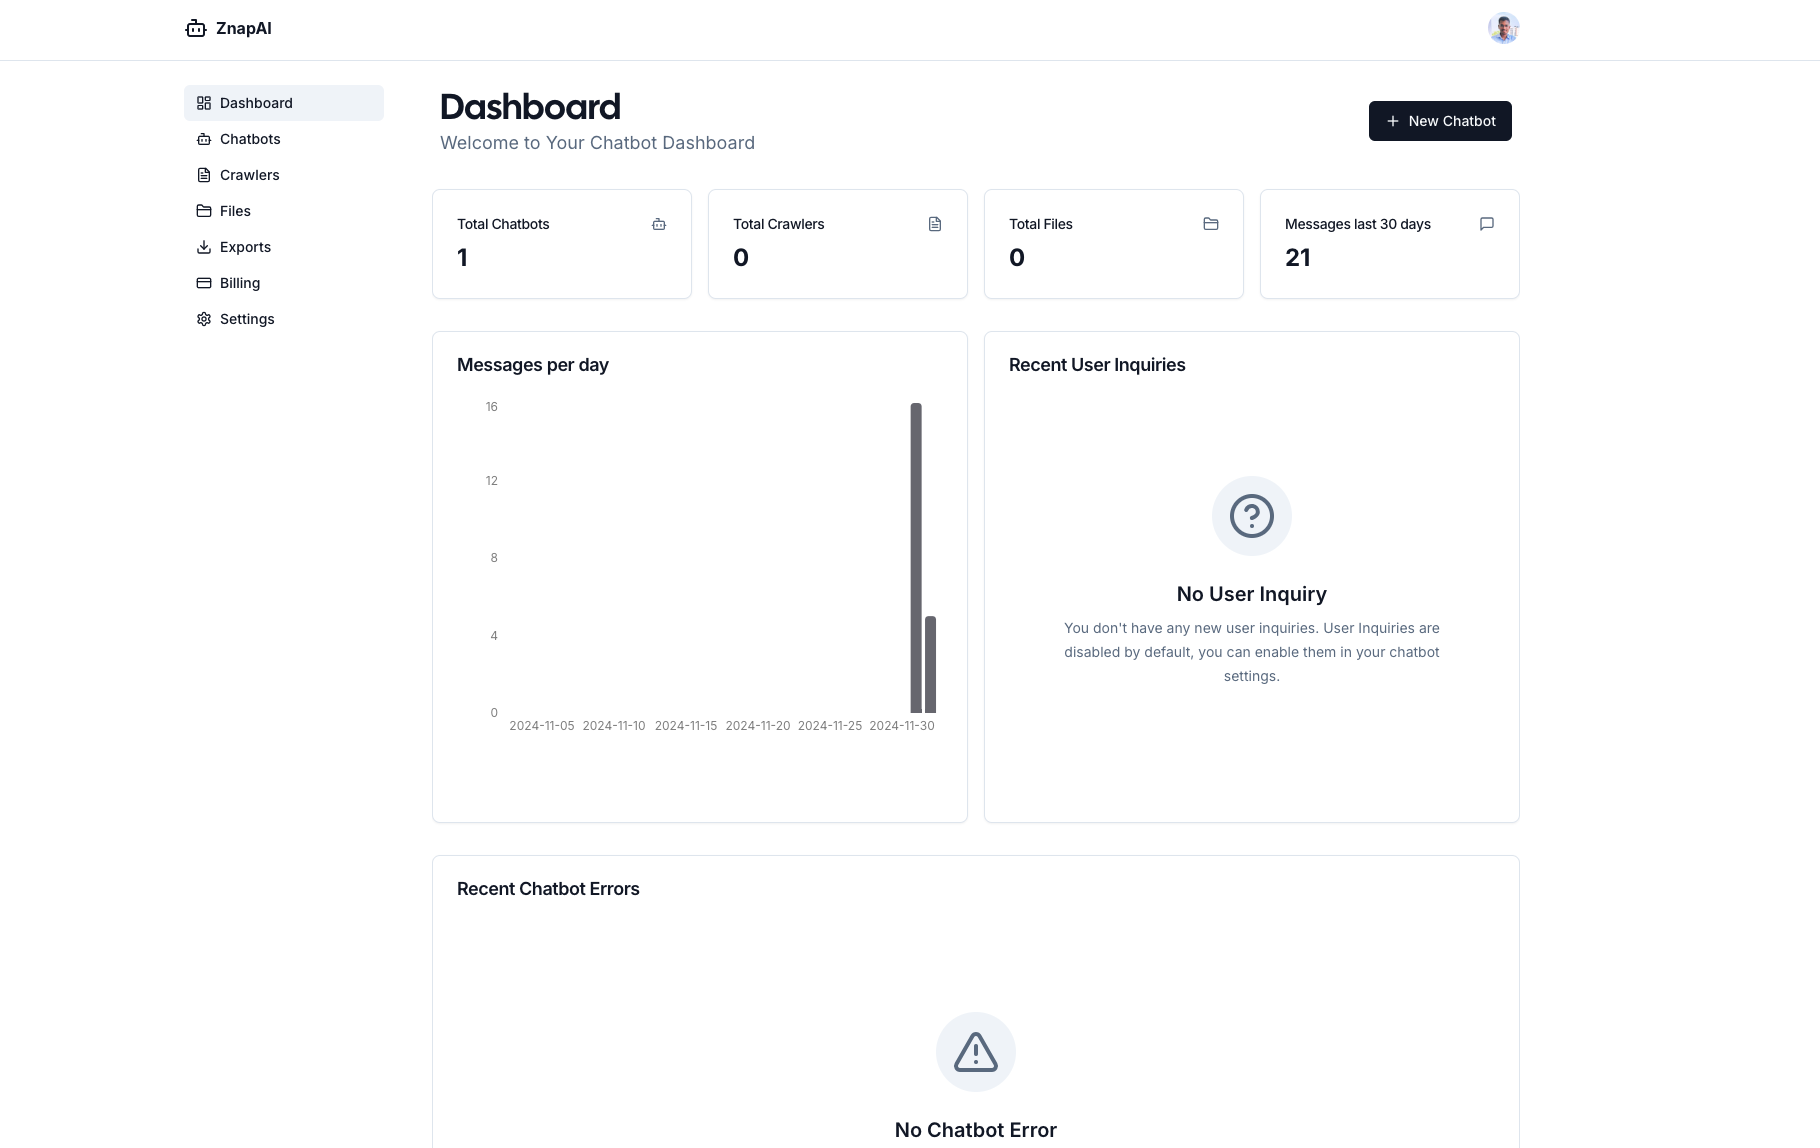
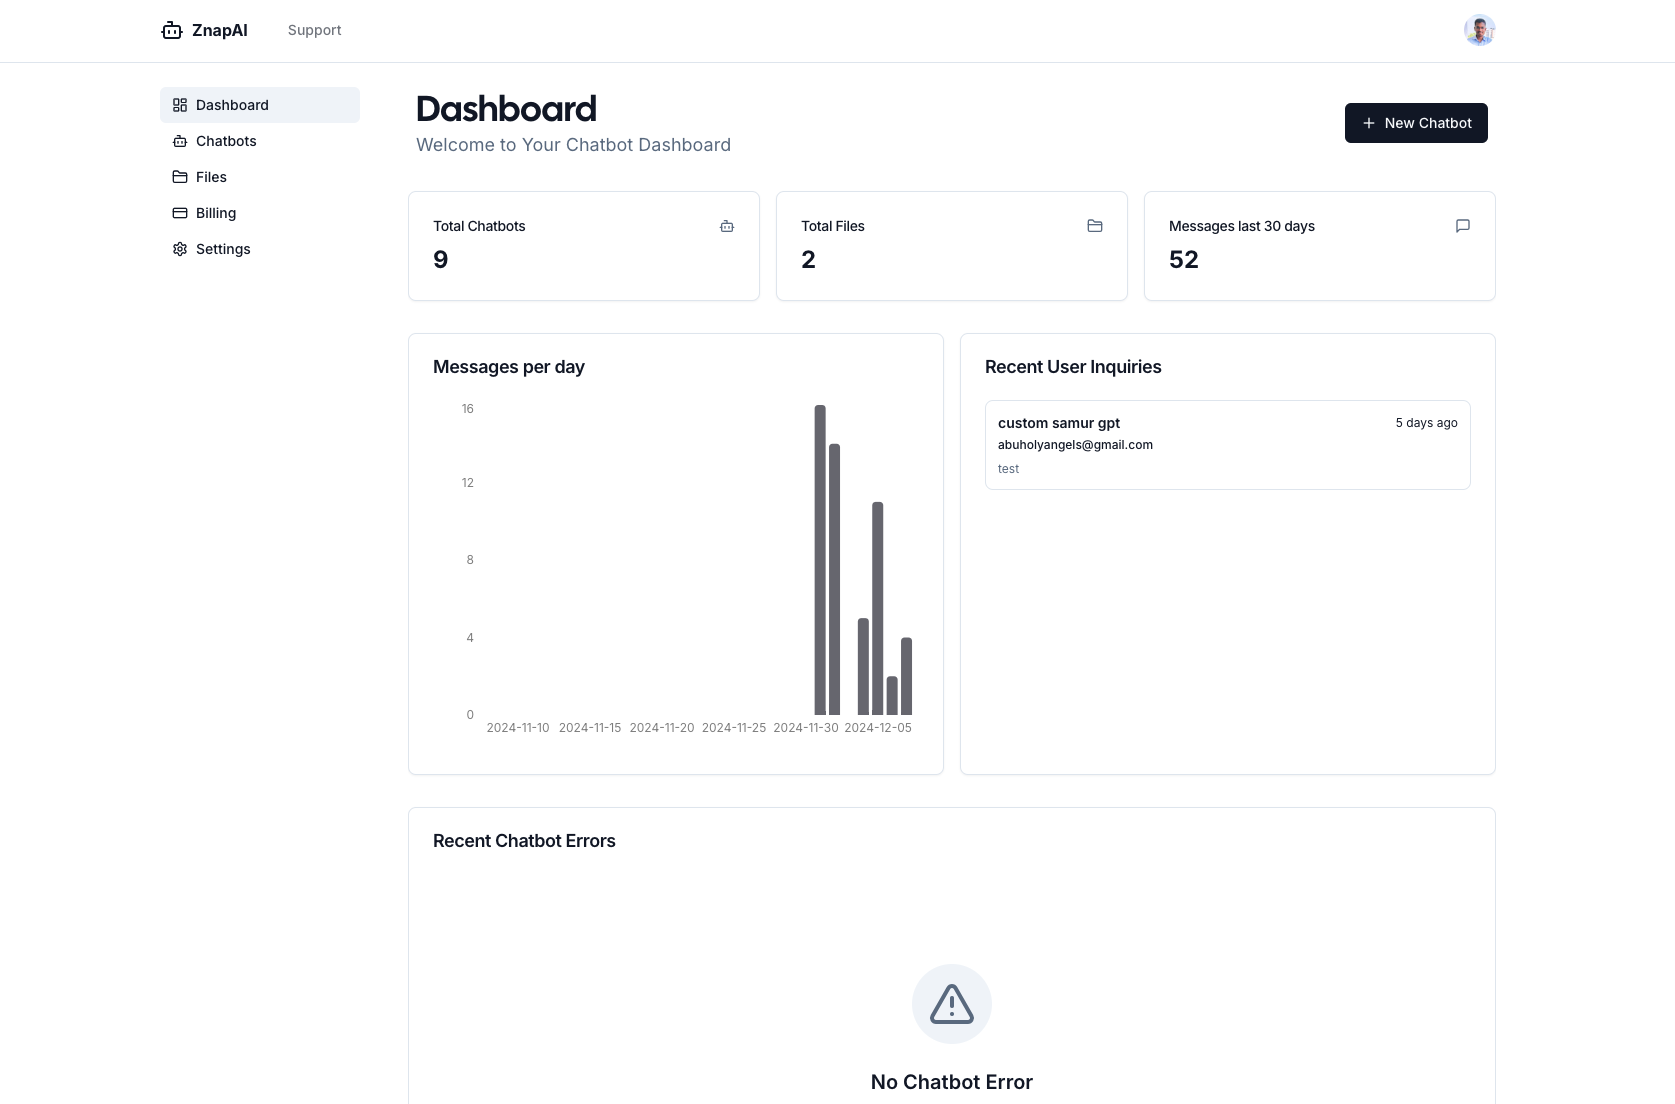
fixed mail

diff --git a/emails/inquiry.tsx b/emails/inquiry.tsx
@@ -23,61 +23,83 @@ interface InquiryEmailProps {
     chatbotId: string | null | undefined;
 }
 
-export default function InquiryEmail({ ownerName, userEmail, userInquiry, chatbotName, chatbotId }: InquiryEmailProps) {
-    const previewText = `New User Inquiry ${chatbotName}!`;
+export default function InquiryEmail({
+    ownerName,
+    userEmail,
+    userInquiry,
+    chatbotName,
+    chatbotId,
+}: {
+    ownerName: string | null | undefined;
+    userEmail: string | null | undefined;
+    userInquiry: string | null | undefined;
+    chatbotName: string | null | undefined;
+    chatbotId: string | null | undefined;
+}) {
+    const previewText = `New User Inquiry for ${chatbotName}!`;
 
     return (
-        <>
-        {/* <Html> */}
-            {/* <Head /> */}
-            {/* <Preview> */}
-                {previewText}
-                {/* </Preview> */}
-            {/* <Tailwind> */}
-                {/* <Body className="bg-white my-auto mx-auto font-sans"> */}
-                    {/* <Container className="my-10 mx-auto p-5 w-[465px]"> */}
-                        {/* <Heading className="text-2xl font-normal text-center p-0 my-8 mx-0"> */}
-                            You have a new user inquiry from {userEmail} !
-                        {/* </Heading> */}
-                        {/* <Text className="text-sm"> */}
-                            Hello {ownerName},
-                            {/* </Text> */}
-                        {/* <Text className="text-sm"> */}
-                            You have received a new inquiry from a user. Here are the details:
+        <div className="bg-gray-50 min-h-screen flex justify-center items-center p-4">
+            <div className="bg-white w-full max-w-md rounded-lg shadow-lg p-6">
+                {/* Preview text */}
+                <p className="hidden">{previewText}</p>
 
-                            <br />
-                            <br />
-                            <b>Chatbot Name:</b> {chatbotName}
-                            <br />
-                            <b>User Email:</b> {userEmail}
-                            <br />
-                            <b>Inquiry Message:</b> {userInquiry}
-                            <br />
-                            <br />
-                            Open your dashboard to view the inquiry and the full conversation.
-                        {/* </Text> */}
-                        {/* <Section className="text-center mt-[32px] mb-[32px]"> */}
-                            {/* <Button */}
-                                {/* className="p-2 bg-[#00A3FF] rounded text-white text-xs font-semibold no-underline text-center"
-                                href={`${siteConfig.url}dashboard/chatbots/${chatbotId}/inquiries`}
-                            > */}
-                                Open Inquiries Dashboard
-                            {/* </Button> */}
-                        {/* </Section> */}
-                        {/* <Text className="text-sm"> */}
-                            Cheers,
-                            <br />
-                            The {siteConfig.name} Team
-                        {/* </Text> */}
-                        {/* <Text className="text-center text-gray-400"> */}
-                            {/* You are subscribed to the emails for Inquiry notifications. To manage your communication preferences, click 
-                                here */}
-                            {/* </Link> */}
-                        {/* </Text> */}
-                    {/* </Container> */}
-                {/* </Body> */}
-            {/* </Tailwind> */}
-        {/* </Html> */}
-        </>
+                {/* Header */}
+                <h1 className="text-2xl font-semibold text-center text-blue-500">
+                    New User Inquiry from {userEmail}!
+                </h1>
+
+                {/* Greeting */}
+                <p className="text-sm mt-4">
+                    Hello <span className="font-medium">{ownerName}</span>,
+                </p>
+
+                {/* Message */}
+                <p className="text-sm mt-2">
+                    You have received a new inquiry from a user. Here are the details:
+                </p>
+
+                {/* Inquiry Details */}
+                <div className="mt-4 text-sm">
+                    <p>
+                        <span className="font-semibold">Chatbot Name:</span> {chatbotName}
+                    </p>
+                    <p>
+                        <span className="font-semibold">User Email:</span> {userEmail}
+                    </p>
+                    <p>
+                        <span className="font-semibold">Inquiry Message:</span> {userInquiry}
+                    </p>
+                </div>
+
+                {/* Call to Action */}
+                <div className="text-center mt-6">
+                    <a
+                        href={`${siteConfig.url}dashboard/chatbots/${chatbotId}/inquiries`}
+                        className="inline-block bg-blue-500 text-white text-sm font-semibold px-4 py-2 rounded hover:bg-blue-600"
+                    >
+                        Open Inquiries Dashboard
+                    </a>
+                </div>
+
+                {/* Closing */}
+                <p className="text-sm mt-6">
+                    Cheers,
+                    <br />
+                    The {siteConfig.name} Team
+                </p>
+
+                {/* Footer */}
+                <p className="text-xs text-gray-400 text-center mt-6">
+                    You are subscribed to emails for inquiry notifications. To manage your communication preferences, click{" "}
+                    <a
+                        href={`${siteConfig.url}dashboard/settings`}
+                        className="text-blue-500 underline"
+                    >
+                        here
+                    </a>.
+                </p>
+            </div>
+        </div>
     );
-};
+}

diff --git a/emails/welcome.tsx b/emails/welcome.tsx
@@ -19,54 +19,68 @@ interface WelcomeEmailProps {
     name: string | null | undefined;
 }
 
-export default function WelcomeEmail({ name }: WelcomeEmailProps) {
+export default function WelcomeEmail({ name }: { name: string | null | undefined }) {
     const previewText = `Welcome to ${siteConfig.name}, ${name}!`;
 
     return (
-        <>
-        {/* <Html> */}
-            {/* <Head /> */}
-            {/* <Preview> */}
-                {previewText}
-                {/* </Preview> */}
-            {/* <Tailwind> */}
-                {/* <Body className="bg-white my-auto mx-auto font-sans"> */}
-                    {/* <Container className="my-10 mx-auto p-5 w-[465px]"> */}
-                        {/* <Heading className="text-2xl font-normal text-center p-0 my-8 mx-0"> */}
-                            Welcome to {siteConfig.name}!
-                        {/* </Heading> */}
-                        {/* <Text className="text-sm">Hello {name},</Text> */}
-                        {/* <Text className="text-sm"> */}
-                            We're excited to have you onboard at <span>{siteConfig.name}</span>. We
-                            hope you enjoy your journey with us. If you have any questions or
-                            need assistance, feel free to reach out.
-                        {/* </Text> */}
-                        {/* <Text> */}
-                            You can contact us directly with the email contact@znap.in
-                        {/* </Text> */}
-                        {/* <Section className="text-center mt-[32px] mb-[32px]"> */}
-                            {/* <Button
-                                className="p-2 bg-[#00A3FF] rounded text-white text-xs font-semibold no-underline text-center"
-                                href={`${siteConfig.url}dashboard/onboarding`}
-                            > */}
-                                {/* Get Started */}
-                            {/* </Button> */}
-                        {/* </Section> */}
-                        {/* <Text className="text-sm"> */}
-                            Cheers,
-                            <br />
-                            The {siteConfig.name} Team
-                        {/* </Text> */}
-                        {/* <Text className="text-center text-gray-400"> */}
-                            {/* You are subscribed to the marketing emails. To manage your communication preferences, click  */}
-                            {/* <Link className="underline text-gray-400" href={`${siteConfig.url}dashboard/settings`}> */}
-                                {/* here */}
-                            {/* </Link> */}
-                        {/* </Text> */}
-                    {/* </Container> */}
-                {/* </Body> */}
-            {/* </Tailwind> */}
-        {/* </Html> */}
-        </>
+        <div className="bg-gray-50 min-h-screen flex justify-center items-center p-4">
+            <div className="bg-white w-full max-w-md rounded-lg shadow-lg p-6">
+                {/* Preview text */}
+                <p className="hidden">{previewText}</p>
+                
+                {/* Header */}
+                <h1 className="text-2xl font-semibold text-center text-blue-500">
+                    Welcome to {siteConfig.name}!
+                </h1>
+                
+                {/* Greeting */}
+                <p className="text-sm mt-4">
+                    Hello <span className="font-medium">{name}</span>,
+                </p>
+                
+                {/* Message */}
+                <p className="text-sm mt-2">
+                    We're excited to have you onboard at <span className="font-medium">{siteConfig.name}</span>. We
+                    hope you enjoy your journey with us. If you have any questions or
+                    need assistance, feel free to reach out.
+                </p>
+                
+                {/* Contact */}
+                <p className="text-sm mt-2">
+                    You can contact us directly at{" "}
+                    <a href="mailto:contact@znap.in" className="text-blue-500 underline">
+                        contact@znap.in
+                    </a>.
+                </p>
+                
+                {/* Button */}
+                <div className="text-center mt-6">
+                    <a
+                        href={`${siteConfig.url}dashboard/`}
+                        className="inline-block bg-blue-500 text-white text-sm font-semibold px-4 py-2 rounded hover:bg-blue-600"
+                    >
+                        Get Started
+                    </a>
+                </div>
+                
+                {/* Closing */}
+                <p className="text-sm mt-6">
+                    Cheers,
+                    <br />
+                    The {siteConfig.name} Team
+                </p>
+                
+                {/* Footer */}
+                <p className="text-xs text-gray-400 text-center mt-6">
+                    You are subscribed to marketing emails. To manage your communication preferences, click{" "}
+                    <a
+                        href={`${siteConfig.url}dashboard/settings`}
+                        className="text-blue-500 underline"
+                    >
+                        here
+                    </a>.
+                </p>
+            </div>
+        </div>
     );
-};
+}

diff --git a/app/(dashboard)/dashboard/page.tsx b/app/(dashboard)/dashboard/page.tsx
@@ -158,7 +158,7 @@ export default async function DashboardPage() {
             <a href="/dashboard/onboarding"><Button><p className="pr-2">Open Onboarding</p>  <Icons.help className="h-4 w-4" /> </Button></a>
           </div>
         } */}
-        <div className="grid gap-4 md:grid-cols-2 lg:grid-cols-4">
+        <div className="grid gap-4 md:grid-cols-2 lg:grid-cols-3">
           <Card>
             <CardHeader className="flex flex-row items-center justify-between space-y-0 pb-2">
               <CardTitle className="text-sm font-medium">
@@ -170,7 +170,7 @@ export default async function DashboardPage() {
               <div className="text-2xl font-bold">{bots}</div>
             </CardContent>
           </Card>
-          <Card>
+          {/* <Card>
             <CardHeader className="flex flex-row items-center justify-between space-y-0 pb-2">
               <CardTitle className="text-sm font-medium">
                 Total Crawlers
@@ -180,7 +180,7 @@ export default async function DashboardPage() {
             <CardContent>
               <div className="text-2xl font-bold">{crawlers}</div>
             </CardContent>
-          </Card>
+          </Card> */}
           <Card>
             <CardHeader className="flex flex-row items-center justify-between space-y-0 pb-2">
               <CardTitle className="text-sm font-medium">

diff --git a/app/(dashboard)/dashboard/chatbots/[chatbotId]/chat/page.tsx b/app/(dashboard)/dashboard/chatbots/[chatbotId]/chat/page.tsx
@@ -9,6 +9,7 @@ import { DashboardShell } from "@/components/shell"
 import { buttonVariants } from "@/components/ui/button"
 import { cn } from "@/lib/utils"
 import { Icons } from "@/components/icons"
+import { siteConfig } from "@/config/site"
 
 interface ChatbotSettingsProps {
     params: { chatbotId: string }
@@ -53,6 +54,18 @@ export default async function ChatbotPage({ params }: ChatbotSettingsProps) {
                     </>
                 </Link>
             </DashboardHeader>
+            <div className="mb-6 text-center">
+                <span className="text-gray-700">
+                    Open in fullscreen in a new window, by clicking{" "}
+                    <Link
+                        href={`${siteConfig.url}embed/${chatbot.id}/window?chatbox=false`}
+                        target="_blank"
+                        className="underline text-blue-600 hover:text-blue-800"
+                    >
+                        here
+                    </Link>
+                </span>
+            </div>
             <div className="h-svh">
                 <iframe
                     src={`/embed/${chatbot.id}/window?chatbox=false`}

diff --git a/lib/emails/send-inquiry.ts b/lib/emails/send-inquiry.ts
@@ -7,7 +7,7 @@ export async function sendNewInquiryEmail({ email, ownerName, userEmail, userInq
     try {
         // Send the email using the Resend API
         await EmailClient.emails.send({
-            from: "ZnapAI <contact@toffeemoney.com>",
+            from: `ZnapAI  ${siteConfig.sendingMail}`,
             to: email as string,
             subject: `${siteConfig.name} - New User Inquiry!`,
             react: emailTemplate,

diff --git a/lib/emails/send-welcome.ts b/lib/emails/send-welcome.ts
@@ -8,7 +8,7 @@ export async function sendWelcomeEmail({ name, email }: { name: string | null | 
     try {
         // Send the email using the Resend API
         await EmailClient.emails.send({
-            from: "ZnapAI <contact@toffeemoney.com>",
+            from: `ZnapAI  ${siteConfig.sendingMail}`,
             to: email as string,
             subject: `Welcome to ${siteConfig.name}!`,
             react: emailTemplate,

diff --git a/config/site.ts b/config/site.ts
@@ -5,7 +5,8 @@ export const siteConfig: SiteConfig = {
   description:
     "Transform data to dialogue in a Znap.",
   url: "https://znapai.com/",
-  ogImage: "",
+  ogImage: "https://znapai.com/dashboard.png",
+  sendingMail: "contact@znap.in",
   links: {
     twitter: "https://x.com/znap_in",
     github: "https://www.linkedin.com/in/zamanitech/",

diff --git a/types/index.d.ts b/types/index.d.ts
@@ -56,6 +56,7 @@ export type SiteConfig = {
   description: string
   url: string
   ogImage: string
+  sendingMail: string
   links: {
     twitter: string
     github: string
